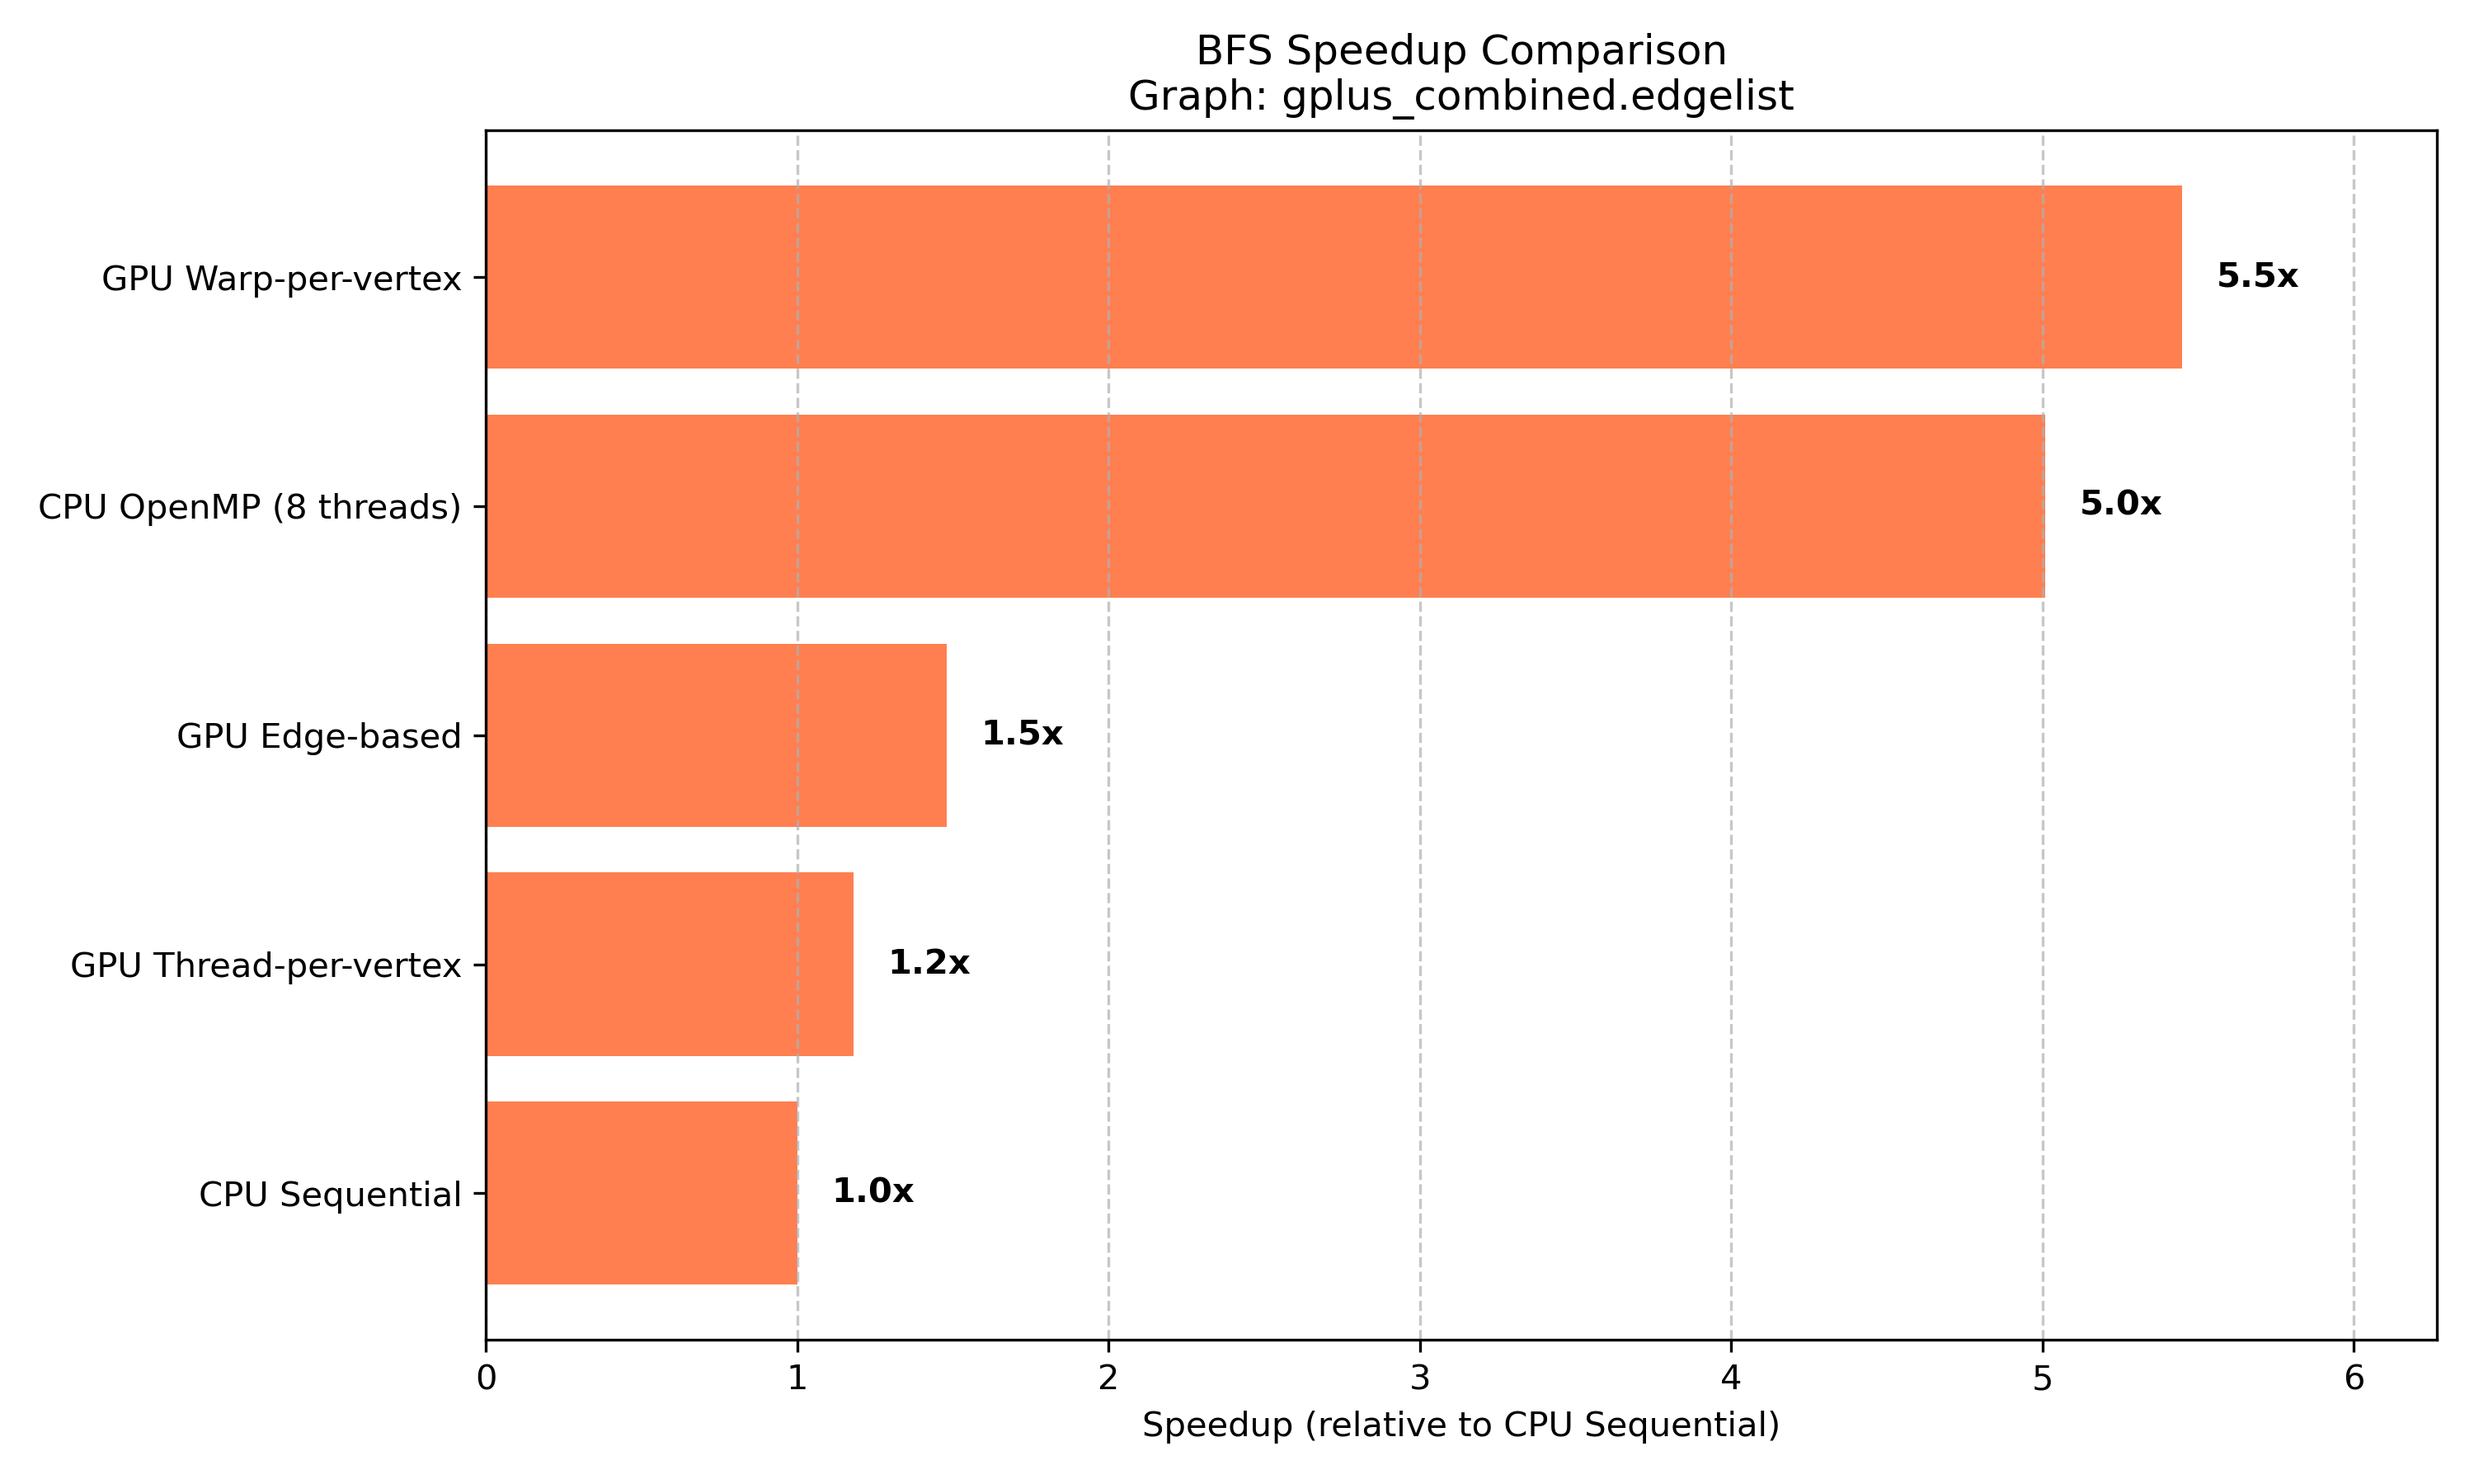
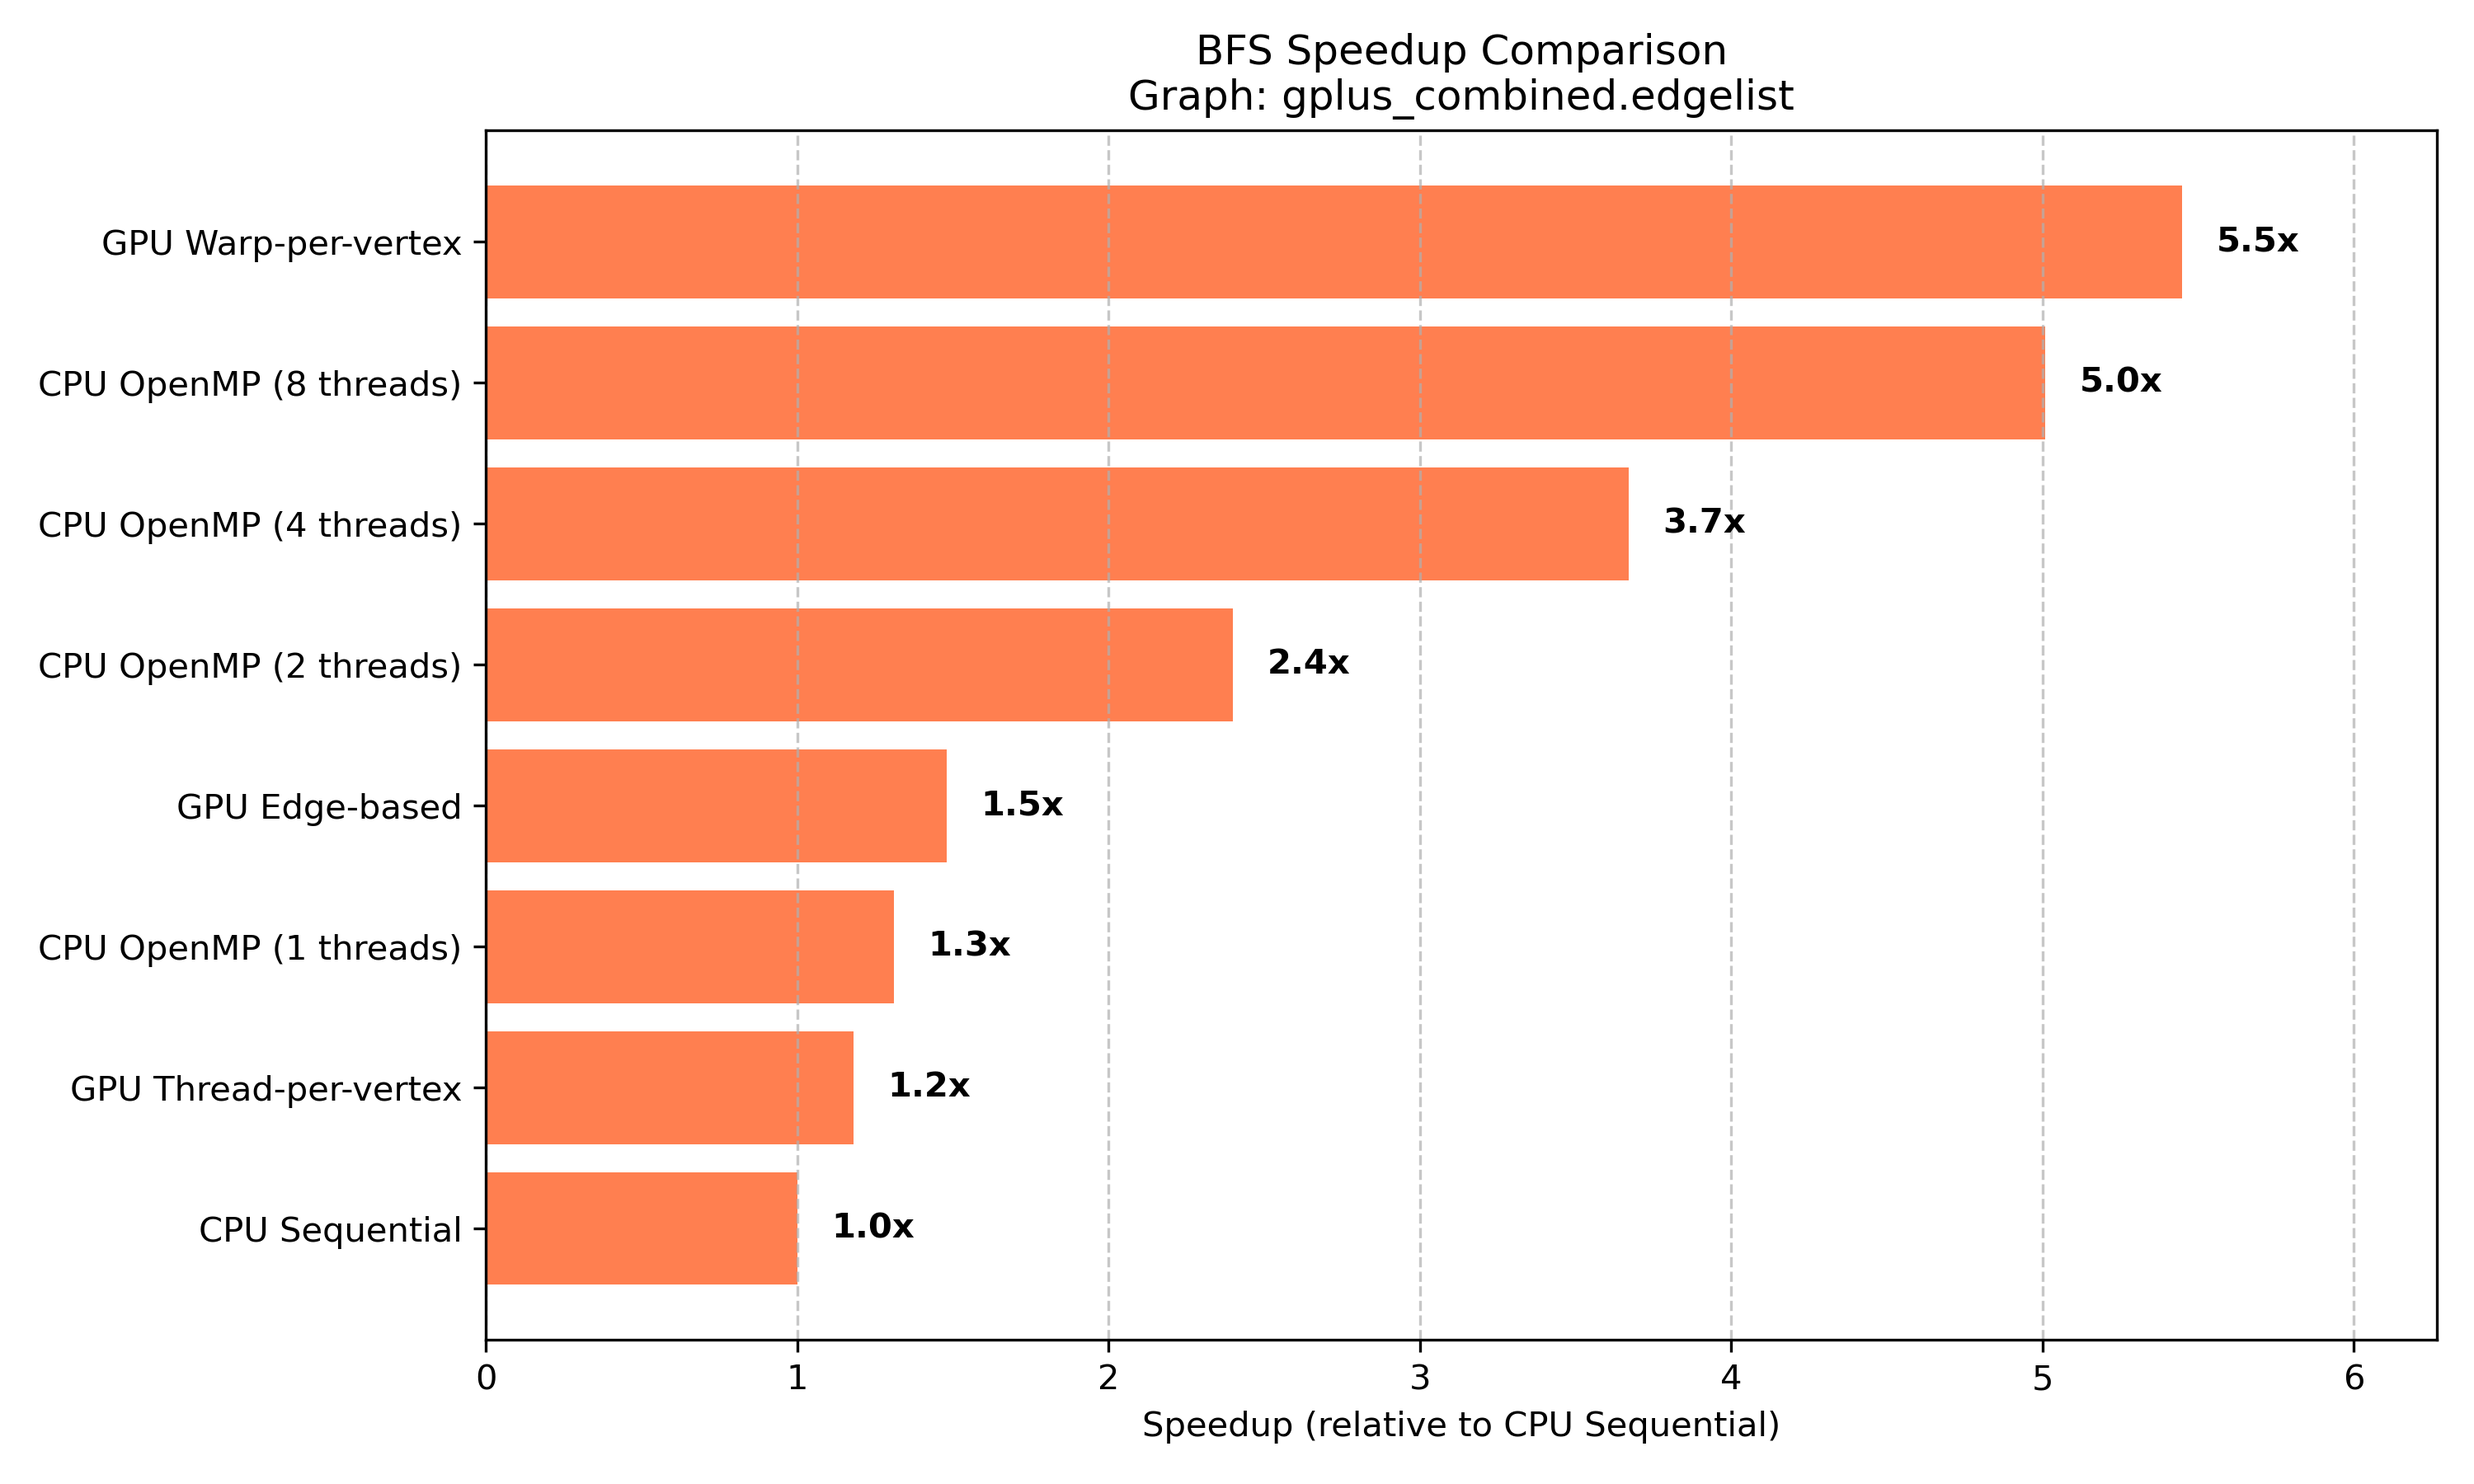
added plots for openmp thread_count-efficiency plot

diff --git a/scripts/visualize_results.py b/scripts/visualize_results.py
@@ -71,6 +71,104 @@ def plot_speedup_comparison(summary_csv, target_graph, outdir):
         print(f"Saved plot to {out_file}")
         plt.close()
 
+def plot_parallel_efficiency(summary_csv, target_graph, outdir):
+    if not os.path.exists(summary_csv):
+        return
+
+    df = pd.read_csv(summary_csv)
+    if df.empty:
+        return
+        
+    df = df[df['graph_file'].str.contains(target_graph)]
+    
+    omp_df = df[df['strategy'].str.contains('OpenMP')].copy()
+    if omp_df.empty:
+        return
+        
+    # Keep only the latest run for each (algo, strategy, threads) combination
+    omp_df = omp_df.drop_duplicates(subset=['algorithm', 'strategy', 'threads'], keep='last')
+    
+    omp_df['efficiency'] = omp_df['speedup_mean'] / omp_df['threads']
+    
+    plt.figure(figsize=(10, 6))
+    
+    colors = {'BFS': 'blue', 'SSSP': 'green'}
+    markers = {'BFS': 'o', 'SSSP': 's'}
+    
+    for algo in ['BFS', 'SSSP']:
+        algo_df = omp_df[omp_df['algorithm'] == algo].sort_values('threads')
+        if not algo_df.empty:
+            plt.plot(algo_df['threads'].values, algo_df['efficiency'].values, marker=markers[algo], 
+                     color=colors[algo], label=algo, linewidth=2, markersize=8)
+            
+    plt.title(f'OpenMP Parallel Efficiency\nGraph: {target_graph}')
+    plt.xlabel('Number of Threads')
+    plt.ylabel('Efficiency (Speedup / Threads)')
+    plt.xticks(omp_df['threads'].unique())
+    # Add a horizontal line at y=1 (Ideal Efficiency)
+    plt.axhline(y=1.0, color='r', linestyle='--', label='Ideal Efficiency (1.0)')
+    
+    plt.legend()
+    plt.grid(True, linestyle='--', alpha=0.7)
+    
+    plt.ylim(bottom=0.0)
+    
+    plt.tight_layout()
+    os.makedirs(outdir, exist_ok=True)
+    out_file = os.path.join(outdir, f"OpenMP_Efficiency_{target_graph.split('.')[0]}.png")
+    plt.savefig(out_file, dpi=300)
+    print(f"Saved efficiency plot to {out_file}")
+    plt.close()
+
+def plot_speedup_scaling(summary_csv, target_graph, outdir):
+    if not os.path.exists(summary_csv):
+        return
+
+    df = pd.read_csv(summary_csv)
+    if df.empty:
+        return
+        
+    df = df[df['graph_file'].str.contains(target_graph)]
+    
+    omp_df = df[df['strategy'].str.contains('OpenMP')].copy()
+    if omp_df.empty:
+        return
+        
+    omp_df = omp_df.drop_duplicates(subset=['algorithm', 'strategy', 'threads'], keep='last')
+    
+    plt.figure(figsize=(10, 6))
+    
+    colors = {'BFS': 'blue', 'SSSP': 'green'}
+    markers = {'BFS': 'o', 'SSSP': 's'}
+    
+    for algo in ['BFS', 'SSSP']:
+        algo_df = omp_df[omp_df['algorithm'] == algo].sort_values('threads')
+        if not algo_df.empty:
+            plt.plot(algo_df['threads'].values, algo_df['speedup_mean'].values, marker=markers[algo], 
+                     color=colors[algo], label=f'{algo} Speedup', linewidth=2, markersize=8)
+            
+    plt.title(f'OpenMP Scaling (Speedup vs Threads)\nGraph: {target_graph}')
+    plt.xlabel('Number of Threads')
+    plt.ylabel('Speedup (relative to Sequential CPU)')
+    
+    # Draw the ideal linear scaling line
+    max_threads = omp_df['threads'].max()
+    plt.plot([1, max_threads], [1, max_threads], 'r--', label='Ideal Linear Scaling')
+    
+    plt.xticks(omp_df['threads'].unique())
+    plt.legend()
+    plt.grid(True, linestyle='--', alpha=0.7)
+    
+    plt.ylim(bottom=0.0)
+    plt.xlim(left=0.5)
+    
+    plt.tight_layout()
+    os.makedirs(outdir, exist_ok=True)
+    out_file = os.path.join(outdir, f"OpenMP_Speedup_Scaling_{target_graph.split('.')[0]}.png")
+    plt.savefig(out_file, dpi=300)
+    print(f"Saved speedup scaling plot to {out_file}")
+    plt.close()
+
 def main():
     parser = argparse.ArgumentParser(description="Visualize Benchmark Results")
     parser.add_argument("--summary", default="results/csv/results_summary.csv", help="Path to results_summary.csv")
@@ -82,6 +180,8 @@ def main():
 
     print("Generating visualizations...")
     plot_speedup_comparison(summary_path, args.graph, args.outdir)
+    plot_parallel_efficiency(summary_path, args.graph, args.outdir)
+    plot_speedup_scaling(summary_path, args.graph, args.outdir)
     print("Done!")
 
 if __name__ == "__main__":

diff --git a/scripts/calc_imbalance.py b/scripts/calc_imbalance.py
@@ -1,0 +1,90 @@
+#!/usr/bin/env python3
+import sys
+import os
+import argparse
+from collections import defaultdict
+
+def main():
+    parser = argparse.ArgumentParser(description="Compute Static Load Imbalance Metrics for GPU Strategies")
+    parser.add_argument("graph_file", help="Path to the .edgelist or .txt graph file")
+    args = parser.parse_args()
+
+    if not os.path.exists(args.graph_file):
+        print(f"Error: {args.graph_file} not found.")
+        sys.exit(1)
+
+    print(f"Reading graph: {args.graph_file}...")
+    degrees = defaultdict(int)
+    num_edges = 0
+    max_vid = -1
+
+    with open(args.graph_file, 'r') as f:
+        first_line = True
+        for line in f:
+            if line.startswith('#'): continue
+            parts = line.strip().split()
+            if first_line and len(parts) == 2:
+                # It's the V E header
+                first_line = False
+                continue
+            
+            first_line = False
+            if len(parts) >= 2:
+                u = int(parts[0])
+                v = int(parts[1])
+                degrees[u] += 1
+                degrees[v] += 1  # Assuming undirected for the workload calculation
+                num_edges += 2
+                if u > max_vid: max_vid = u
+                if v > max_vid: max_vid = v
+
+    V = max_vid + 1
+    if V == 0:
+        print("Empty graph.")
+        return
+
+    # Convert degrees to a list
+    deg_list = [degrees[i] for i in range(V)]
+    
+    max_degree = max(deg_list)
+    mean_degree = num_edges / V
+
+    print("\n=======================================================")
+    print(f" GRAPH STATISTICS: {os.path.basename(args.graph_file)}")
+    print("=======================================================")
+    print(f" Vertices (V) : {V:,}")
+    print(f" Edges (E)    : {num_edges:,}")
+    print(f" Max Degree   : {max_degree:,}")
+    print(f" Mean Degree  : {mean_degree:.2f}")
+    
+    print("\n=======================================================")
+    print(" LOAD IMBALANCE METRICS (Max / Mean per-thread edge-work)")
+    print("=======================================================")
+
+    # 1. Thread-per-vertex
+    # Each thread processes 1 vertex. Max work = max_degree. Mean work = mean_degree.
+    tpv_imbalance = max_degree / mean_degree if mean_degree > 0 else 1.0
+    print(f" [1] GPU Thread-per-vertex : {tpv_imbalance:.2f}x")
+    print(f"     -> One thread processes the {max_degree}-degree influencer, while the average thread processes {mean_degree:.1f} edges.")
+
+    # 2. Warp-per-vertex
+    # Each warp (32 threads) processes 1 vertex. 
+    # Thread work for vertex v is ceil(degree / 32).
+    import math
+    max_warp_thread_work = max(math.ceil(d / 32.0) for d in deg_list)
+    # Total threads launched = V * 32. Total work = E.
+    mean_warp_thread_work = num_edges / (V * 32.0)
+    wpv_imbalance = max_warp_thread_work / mean_warp_thread_work if mean_warp_thread_work > 0 else 1.0
+    
+    print(f" [2] GPU Warp-per-vertex   : {wpv_imbalance:.2f}x")
+    print(f"     -> Max thread work drops to {max_warp_thread_work} edges. 32 threads cooperatively process influencers.")
+
+    # 3. Thread-per-edge
+    # Each thread processes exactly 1 edge. Max work = 1, Mean work = 1.
+    print(f" [3] GPU Thread-per-edge   : 1.00x (Perfect Balance)")
+    print(f"     -> Work is perfectly distributed regardless of degree skew.")
+    
+    print("=======================================================\n")
+
+if __name__ == "__main__":
+    main()
